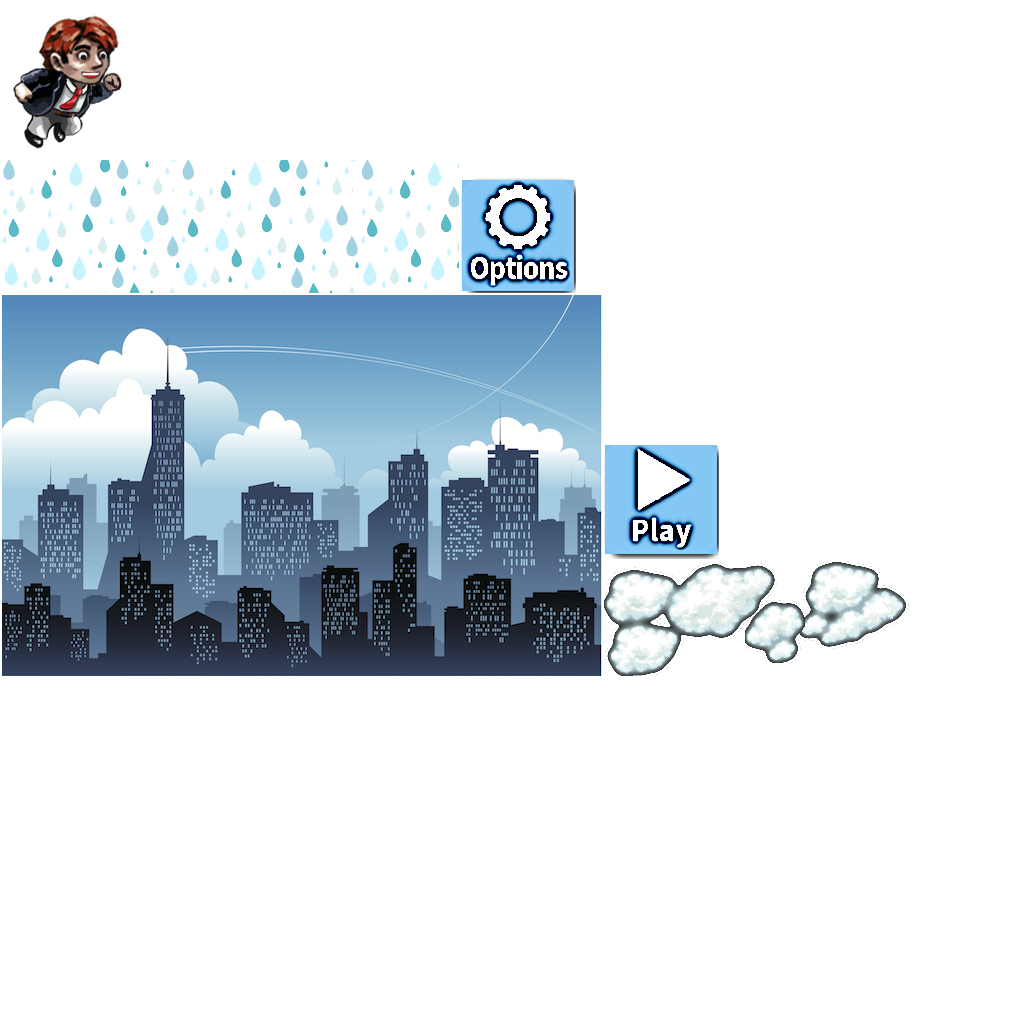
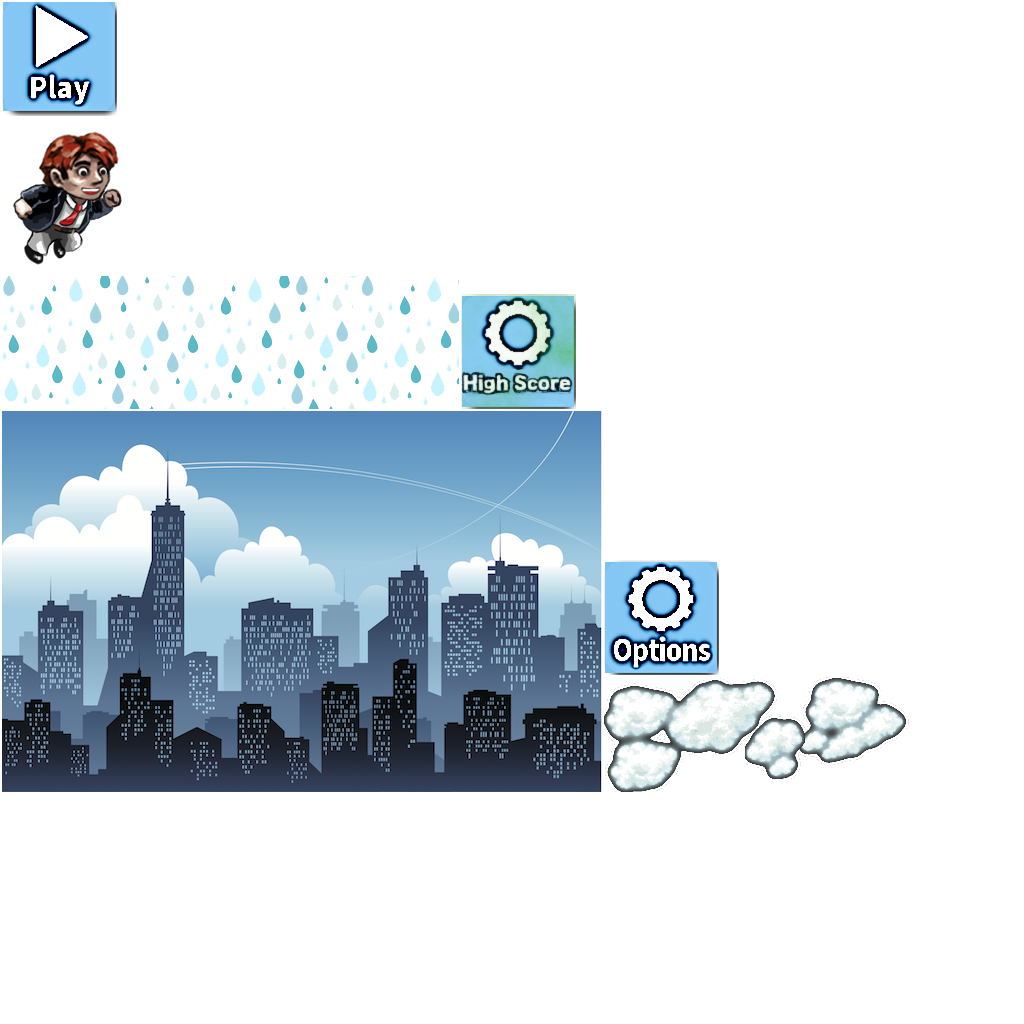
Add a different button to game to fit style

diff --git a/core/src/com/mygdx/screens/MenuScreen.java b/core/src/com/mygdx/screens/MenuScreen.java
@@ -472,9 +472,9 @@ public class MenuScreen extends AbstractGameScreen implements DestructionListene
 	private Table buildControlsLayer() 
 	{
 		 Table layer = new Table(); 
-		 btnMenuHighScore = new Button(skinLibgdx, "default");
-		 btnMenuHighScore.setName("High Score List");
-		 btnMenuHighScore.setColor(Color.WHITE);
+		 btnMenuHighScore = new Button(skinRainMaker, "score");
+		// btnMenuHighScore.setName("High Score List");
+		 //btnMenuHighScore.setColor(Color.WHITE);
 		 layer.add(btnMenuHighScore).align(Align.bottomRight).expand().width(60).height(60);
 		 btnMenuHighScore.addListener(new ChangeListener() {
 
@@ -523,7 +523,7 @@ public class MenuScreen extends AbstractGameScreen implements DestructionListene
 		 
 		 layer.row();
 		 btnMenuPlay = new Button(skinRainMaker, "play");
-		 layer.add(btnMenuPlay).align(Align.bottomRight).width(60).height(60);
+		 layer.add(btnMenuPlay).align(Align.bottomRight).width(60).height(55);
 		 btnMenuPlay.addListener(new ChangeListener() {
 
 			@Override

diff --git a/core/src/com/mygdx/screens/HighScore.java b/core/src/com/mygdx/screens/HighScore.java
@@ -98,9 +98,9 @@ public class HighScore extends AbstractGameScreen
 	private Table buildControlsLayer() 
 	{
 		Table layer = new Table(); 
-		btnMenuHighScore = new Button(skinLibgdx, "default");
-		btnMenuHighScore.setName("Go Back to Main Menu");
-		btnMenuHighScore.setColor(Color.WHITE);
+		btnMenuHighScore = new Button(skinRainMaker, "score");
+		//btnMenuHighScore.setName("Go Back to Main Menu");
+		//btnMenuHighScore.setColor(Color.WHITE);
 		layer.add(btnMenuHighScore).align(Align.bottomRight).expand().width(60).height(60);
 		btnMenuHighScore.addListener(new ChangeListener() {
 
@@ -182,7 +182,7 @@ public class HighScore extends AbstractGameScreen
 			 
 			
 				KeyPair p = it.next();
-				layer.add(new Label(p.toString(), skinLibgdx,"title", Color.SKY));
+				layer.add(new Label(p.toString(), skinLibgdx,"title", Color.RED));
 				layer.row(); 
 				
 			

diff --git a/core/src/com/mygdx/util/HighScoreList.java b/core/src/com/mygdx/util/HighScoreList.java
@@ -43,8 +43,7 @@ public class HighScoreList
 	{
 		
 		score.writeString(name+":"+sc+"\n", true);
-		/*OutputStream stream= score.write(true); 
-		stream.w*/
+		
 	}
 	
 	public int getScore(int score)
